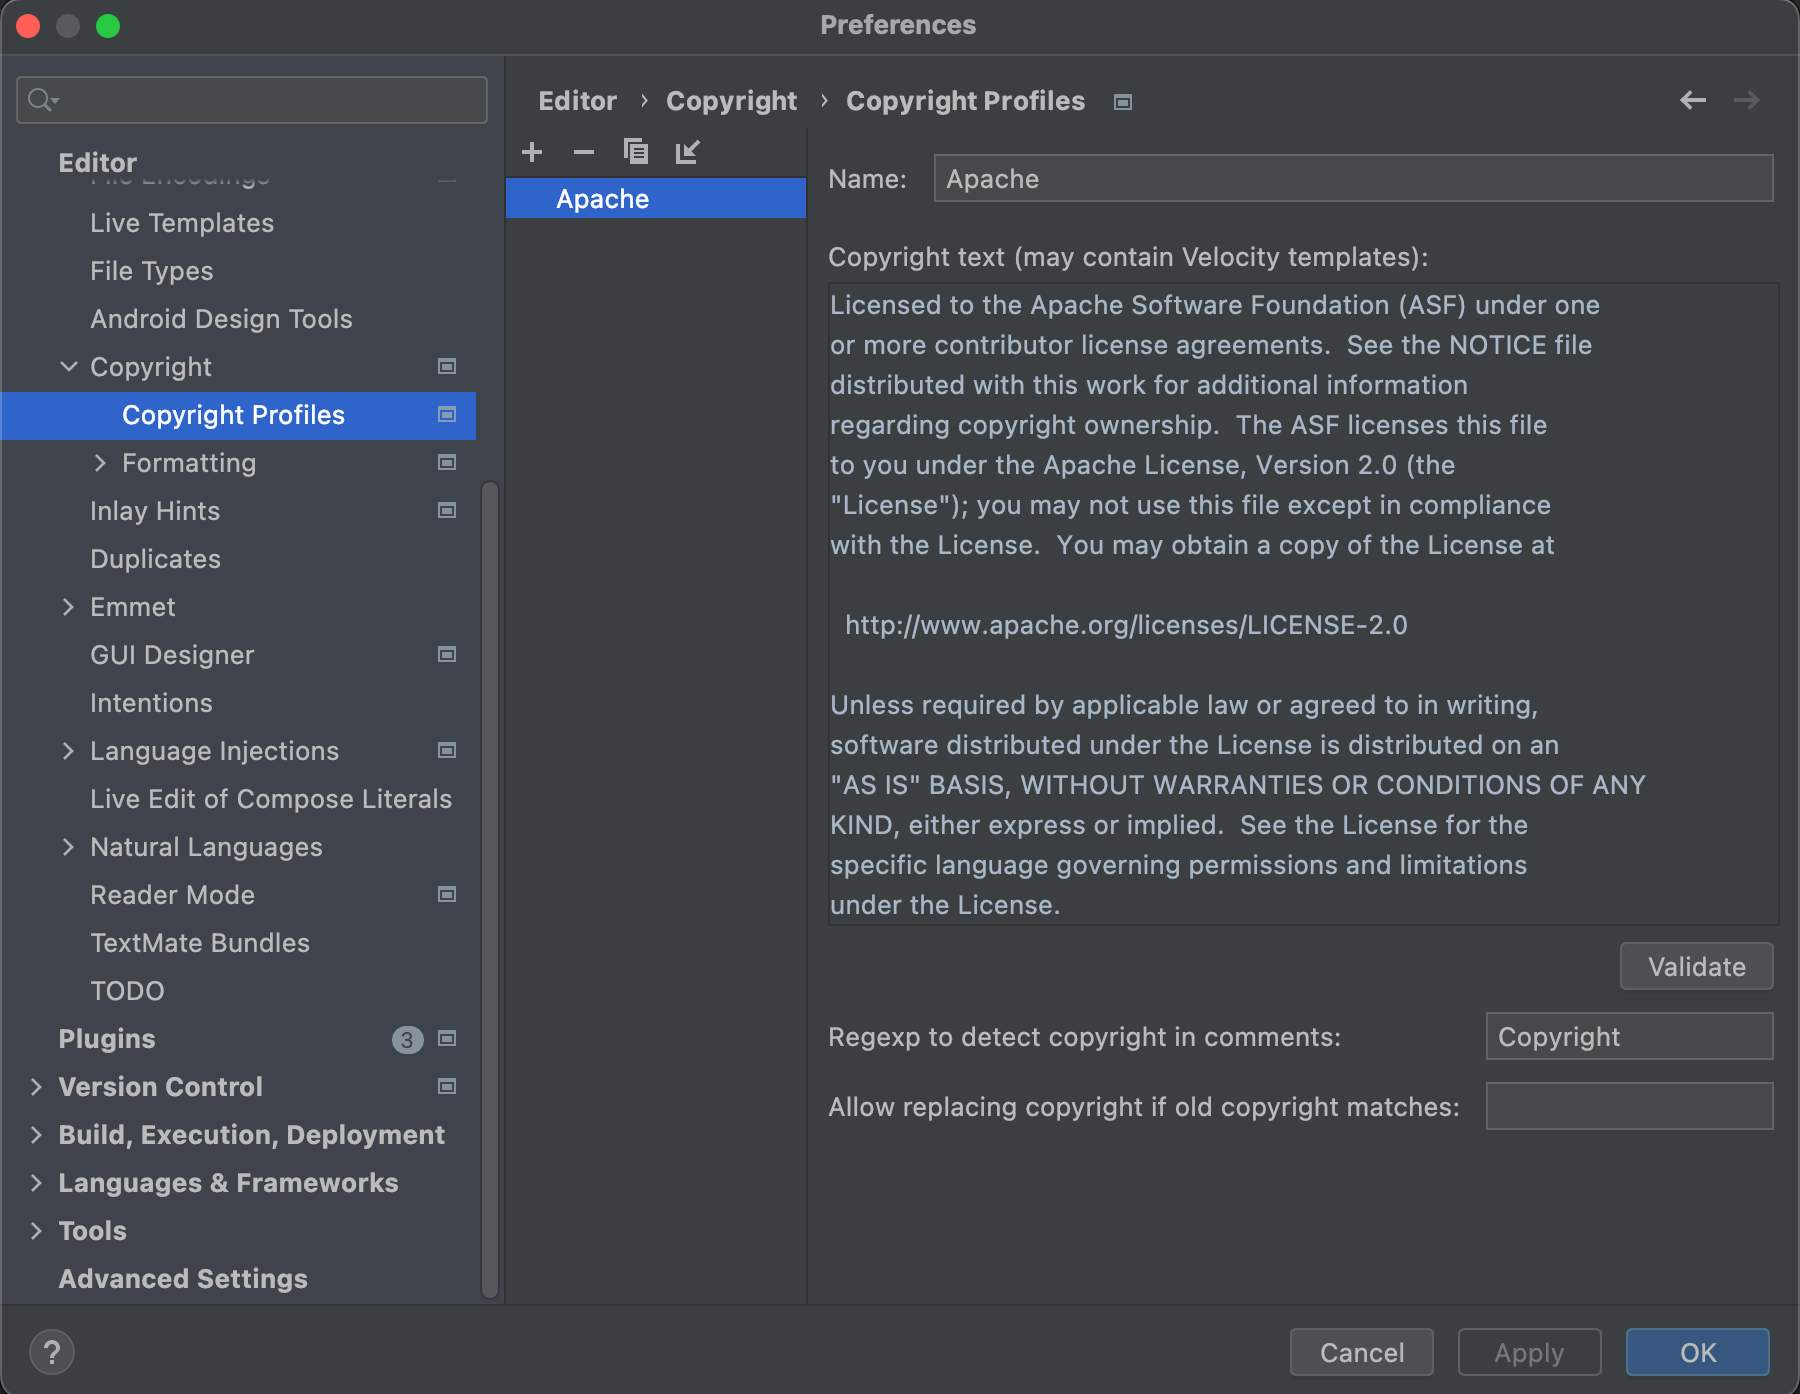
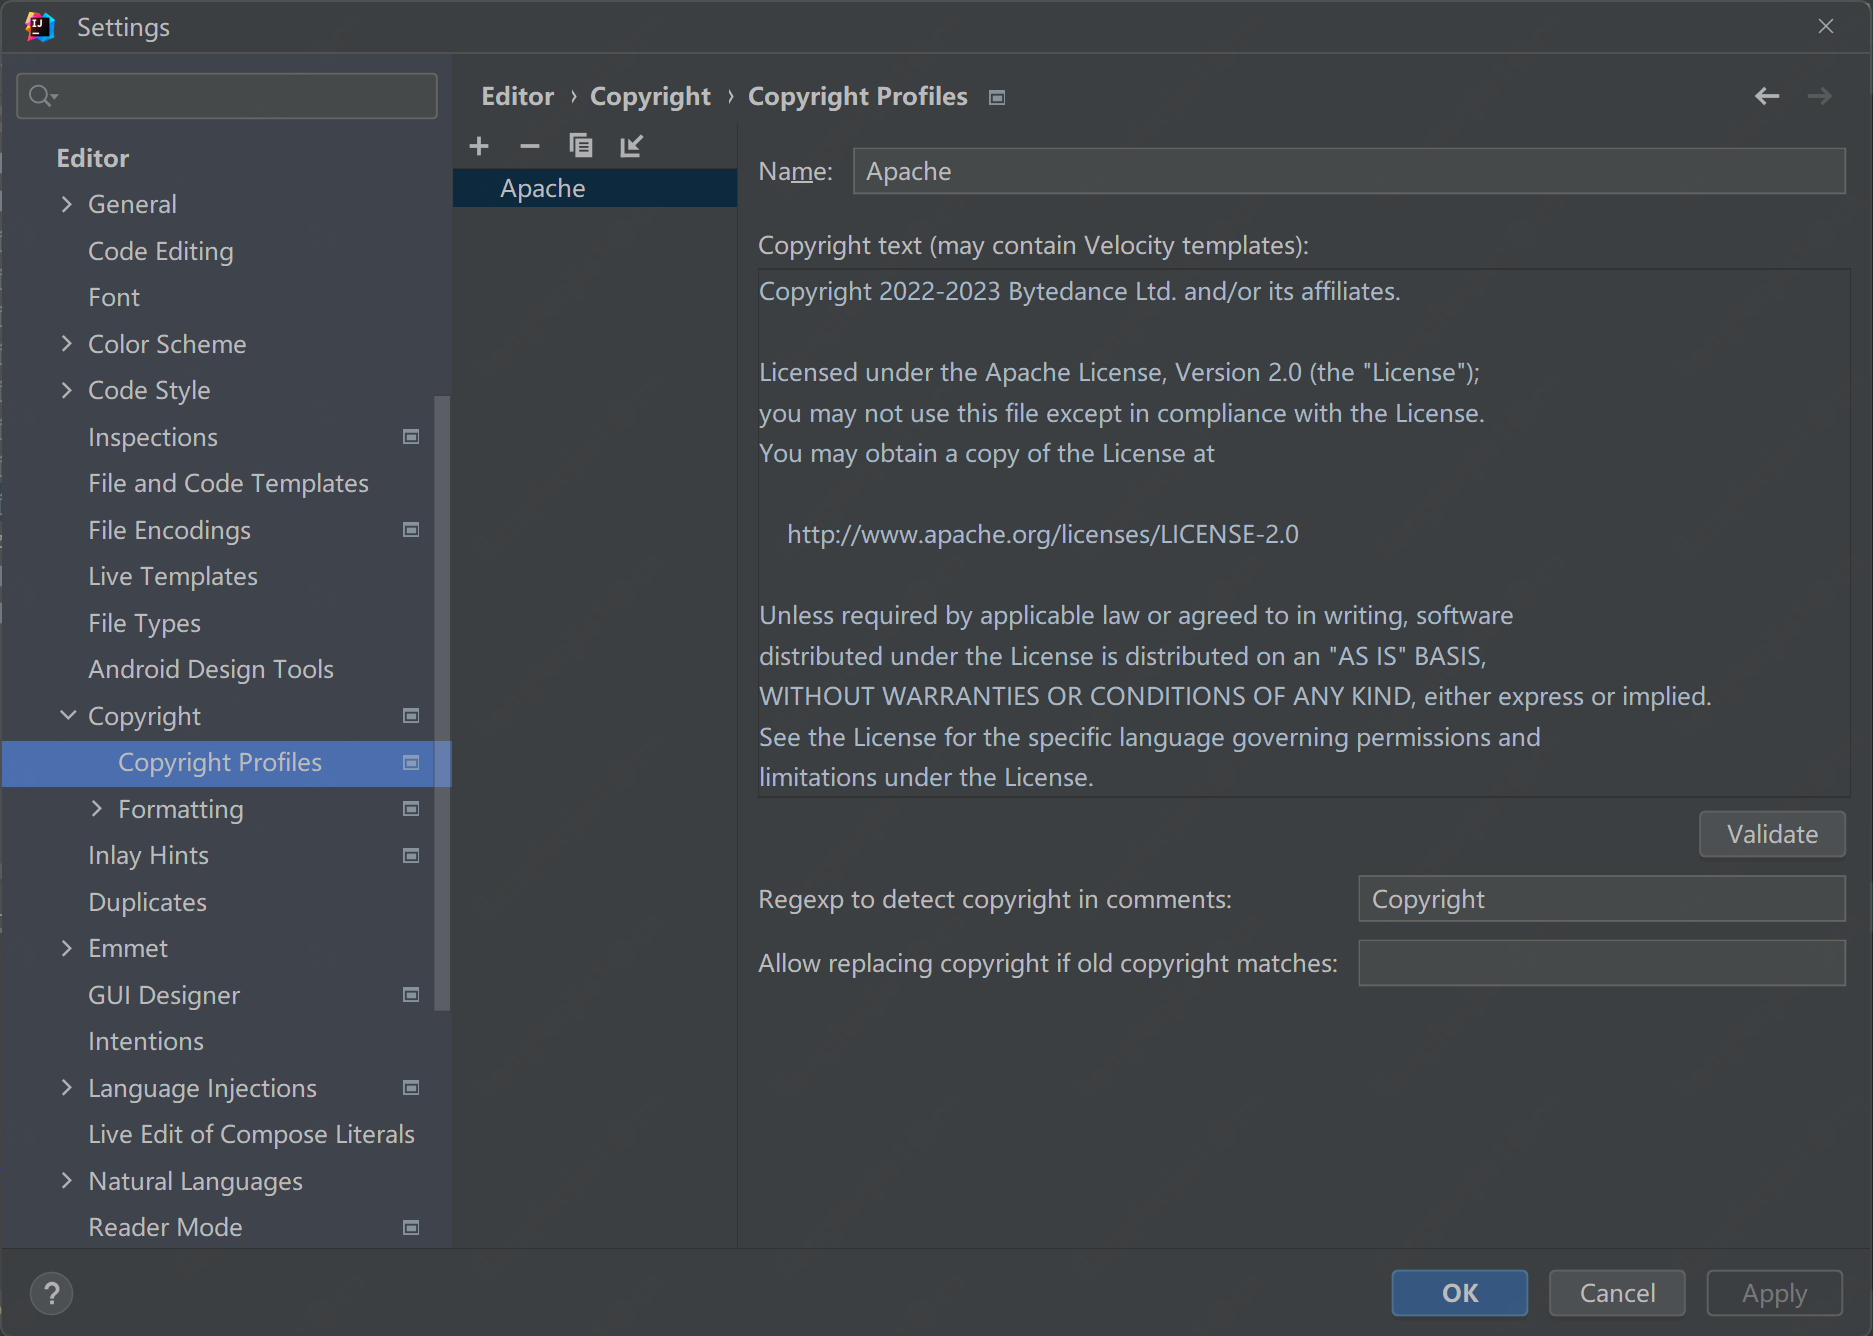
[BitSail][Docs] update license header text of contribute.md among English and Chinese version (#381)

diff --git a/website/zh/community/contribute.md b/website/zh/community/contribute.md
@@ -51,8 +51,23 @@ BitSail项目使用了[Google Java Style Guide](https://google.github.io/stylegu
 我们使用了[lombok](https://projectlombok.org/).请在IDE插件安装lombok
 
 ### 添加License配置
-所有源文件都需要添加许可证头。请添加 [Apache License header](https://www.apache.org/legal/src-headers#headers)
-到您的 IDE 版权设置。完成此步骤后，IDE 将自动将许可证添加到新的源文件。
+所有源文件都需要添加许可证头。请复制**下方**的许可证头并将其添加到您的 IDE 版权设置。完成此步骤后，IDE 将自动将许可证添加到新的源文件。
+
+```
+Copyright 2022-2023 Bytedance Ltd. and/or its affiliates.
+
+Licensed under the Apache License, Version 2.0 (the "License");
+you may not use this file except in compliance with the License.
+You may obtain a copy of the License at
+
+    http://www.apache.org/licenses/LICENSE-2.0
+
+Unless required by applicable law or agreed to in writing, software
+distributed under the License is distributed on an "AS IS" BASIS,
+WITHOUT WARRANTIES OR CONDITIONS OF ANY KIND, either express or implied.
+See the License for the specific language governing permissions and
+limitations under the License.
+```
 
 ![](../../images/license_header.png)
 

diff --git a/website/en/community/contribute.md b/website/en/community/contribute.md
@@ -53,8 +53,24 @@ After importing, run command `mvn checkstyle:check` to see if checkstyle satisfi
 We use project [lombok](https://projectlombok.org/). So please install this plugin as well.
 
 ### Add License Header
-All the source files are required to add License header. Please add [Apache License header](https://www.apache.org/legal/src-headers#headers)
+All the source files are required to add License header. Please copy License header text **below** and add 
 to your IDE Copyright settings. After this step, IDE will add license to new source files automatically.
+
+```
+Copyright 2022-2023 Bytedance Ltd. and/or its affiliates.
+
+Licensed under the Apache License, Version 2.0 (the "License");
+you may not use this file except in compliance with the License.
+You may obtain a copy of the License at
+
+    http://www.apache.org/licenses/LICENSE-2.0
+
+Unless required by applicable law or agreed to in writing, software
+distributed under the License is distributed on an "AS IS" BASIS,
+WITHOUT WARRANTIES OR CONDITIONS OF ANY KIND, either express or implied.
+See the License for the specific language governing permissions and
+limitations under the License.
+```
 
 ![](../../images/license_header.png)
 
